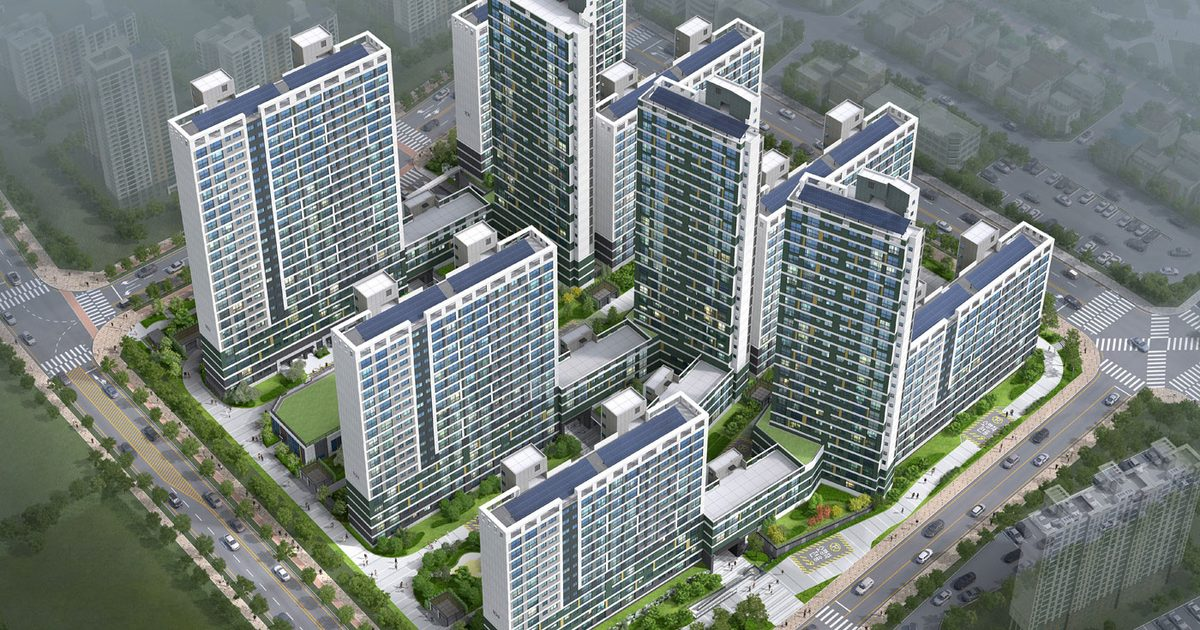
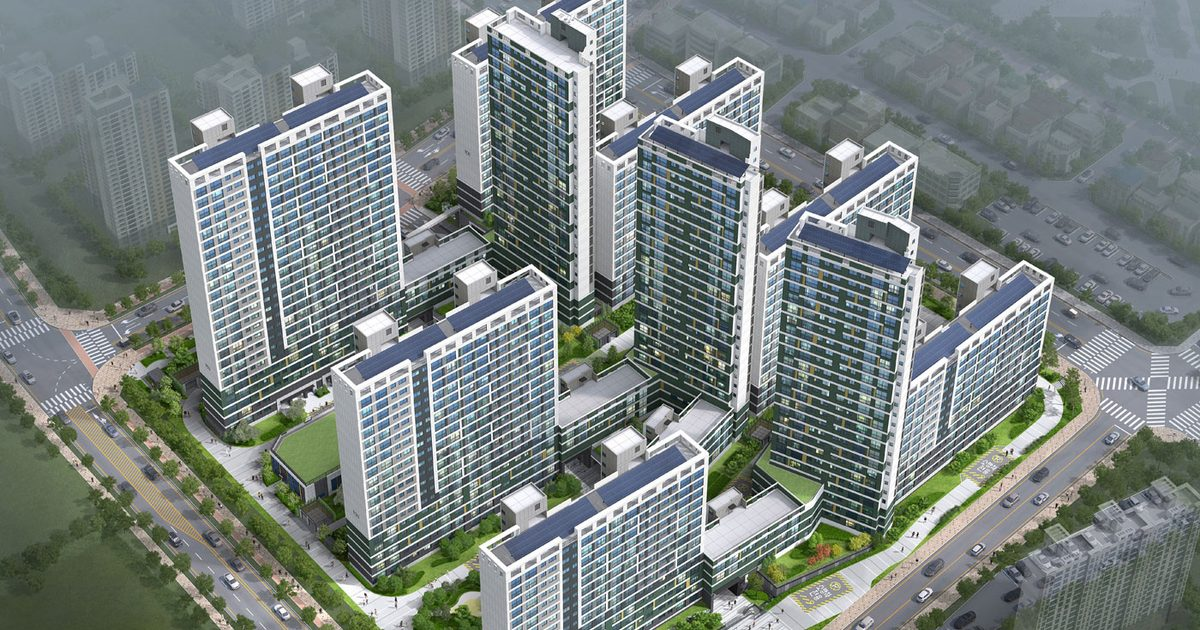
site: 공유 썸네일(og)을 페이지 표지와 같은 구도(photo.pos)로 자르기
Claude-Session: https://claude.ai/code/session_01BX5Lyfw1Hj3UPpyFh8mqbq

diff --git a/site/build.py b/site/build.py
@@ -522,17 +522,24 @@ def img_out(src_rel, dst, width, quality=78, force=False):
     return im.size
 
 
-def og_from(src_rel, dst):
+def og_from(src_rel, dst, pos=None):
+    """공유 썸네일(1200×630) = 페이지 실사(photo)를 페이지 표지와 같은 구도(photo.pos 'center 40%')로 자름."""
     from PIL import Image
     src = REPO / src_rel
-    if dst.exists() and dst.stat().st_mtime >= src.stat().st_mtime:
+    tag = dst.with_suffix(".pos")
+    if dst.exists() and dst.stat().st_mtime >= src.stat().st_mtime and tag.exists() and tag.read_text() == str(pos):
         return
     im = Image.open(src).convert("RGB")
     W, H = 1200, 630
     s = max(W / im.width, H / im.height)
     im = im.resize((round(im.width * s), round(im.height * s)), Image.LANCZOS)
-    x, y = (im.width - W) // 2, (im.height - H) // 2
+    fy = 0.5
+    m = re.search(r"(\d+(?:\.\d+)?)%\s*$", str(pos or ""))
+    if m:
+        fy = min(max(float(m.group(1)) / 100, 0), 1)
+    x, y = (im.width - W) // 2, round((im.height - H) * fy)
     im.crop((x, y, x + W, y + H)).save(dst, "JPEG", quality=82, optimize=True, progressive=True)
+    tag.write_text(str(pos))
 
 
 def og_default(dst):
@@ -557,7 +564,7 @@ def notice_images(n):
     if n.get("photo"):
         sz = img_out(n["photo"]["image"], out / "hero.webp", 960)
         if sz:
-            og_from(n["photo"]["image"], out / "og.jpg")
+            og_from(n["photo"]["image"], out / "og.jpg", n["photo"].get("pos"))
             imgs["hero"] = {"src": "hero.webp", "w": sz[0], "h": sz[1]}
     if n.get("map"):
         sz = img_out(n["map"], out / "map.webp", 960)
